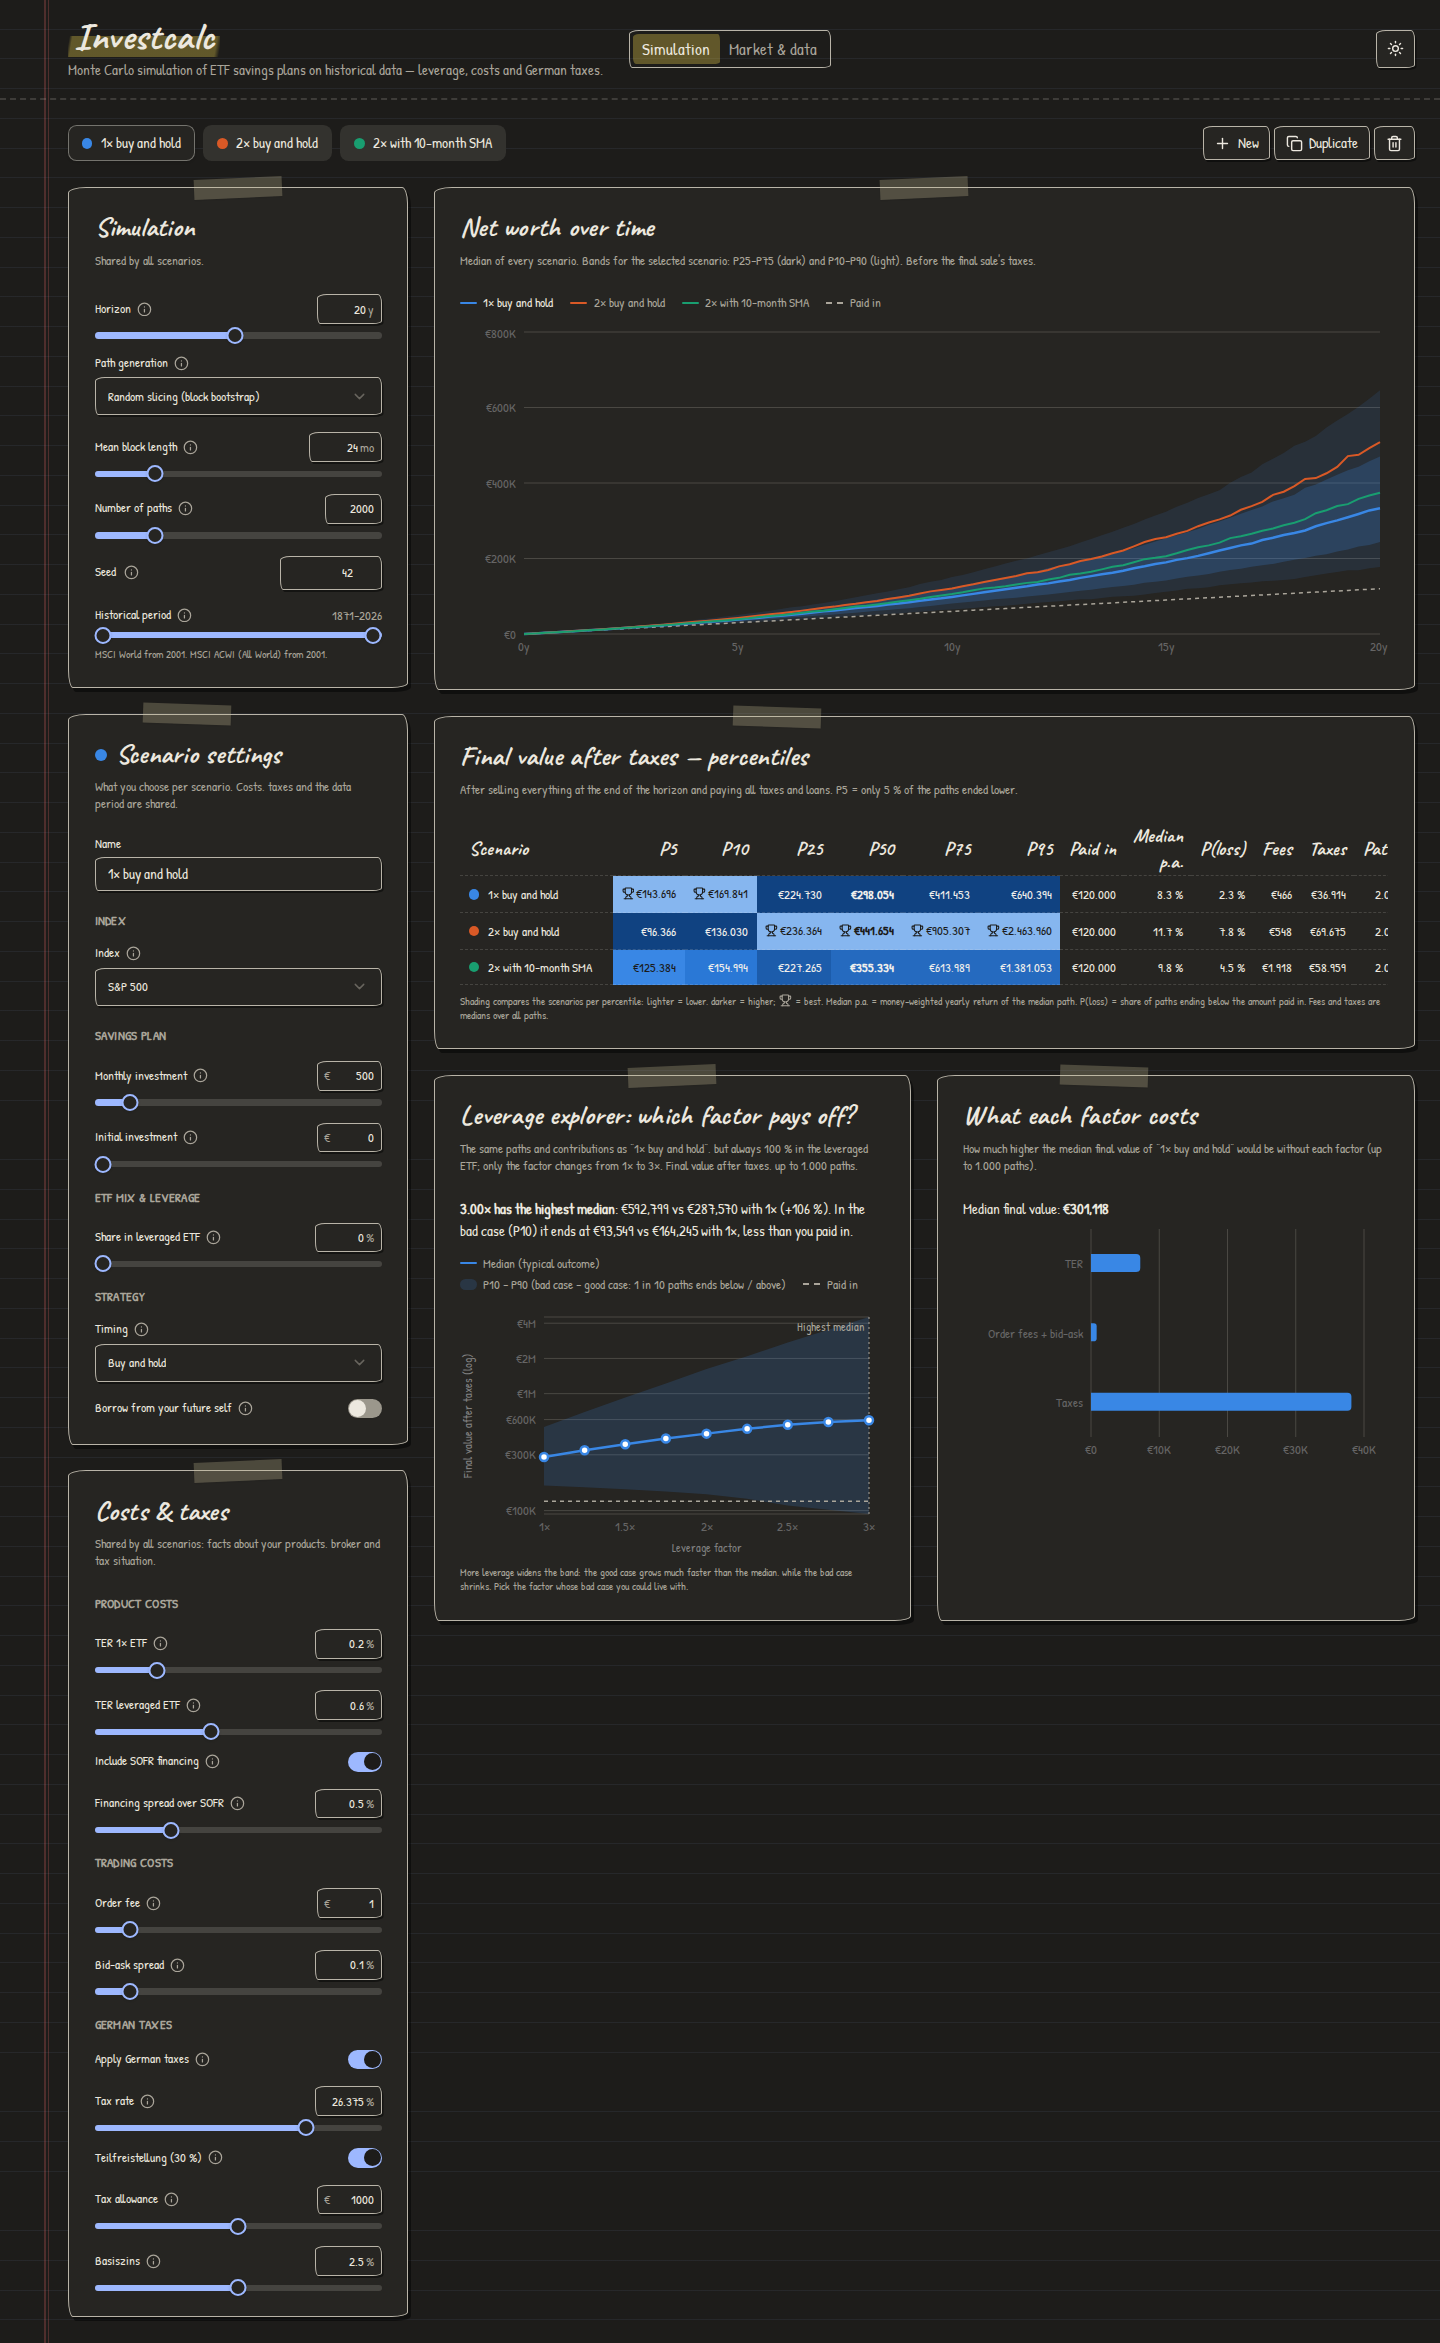
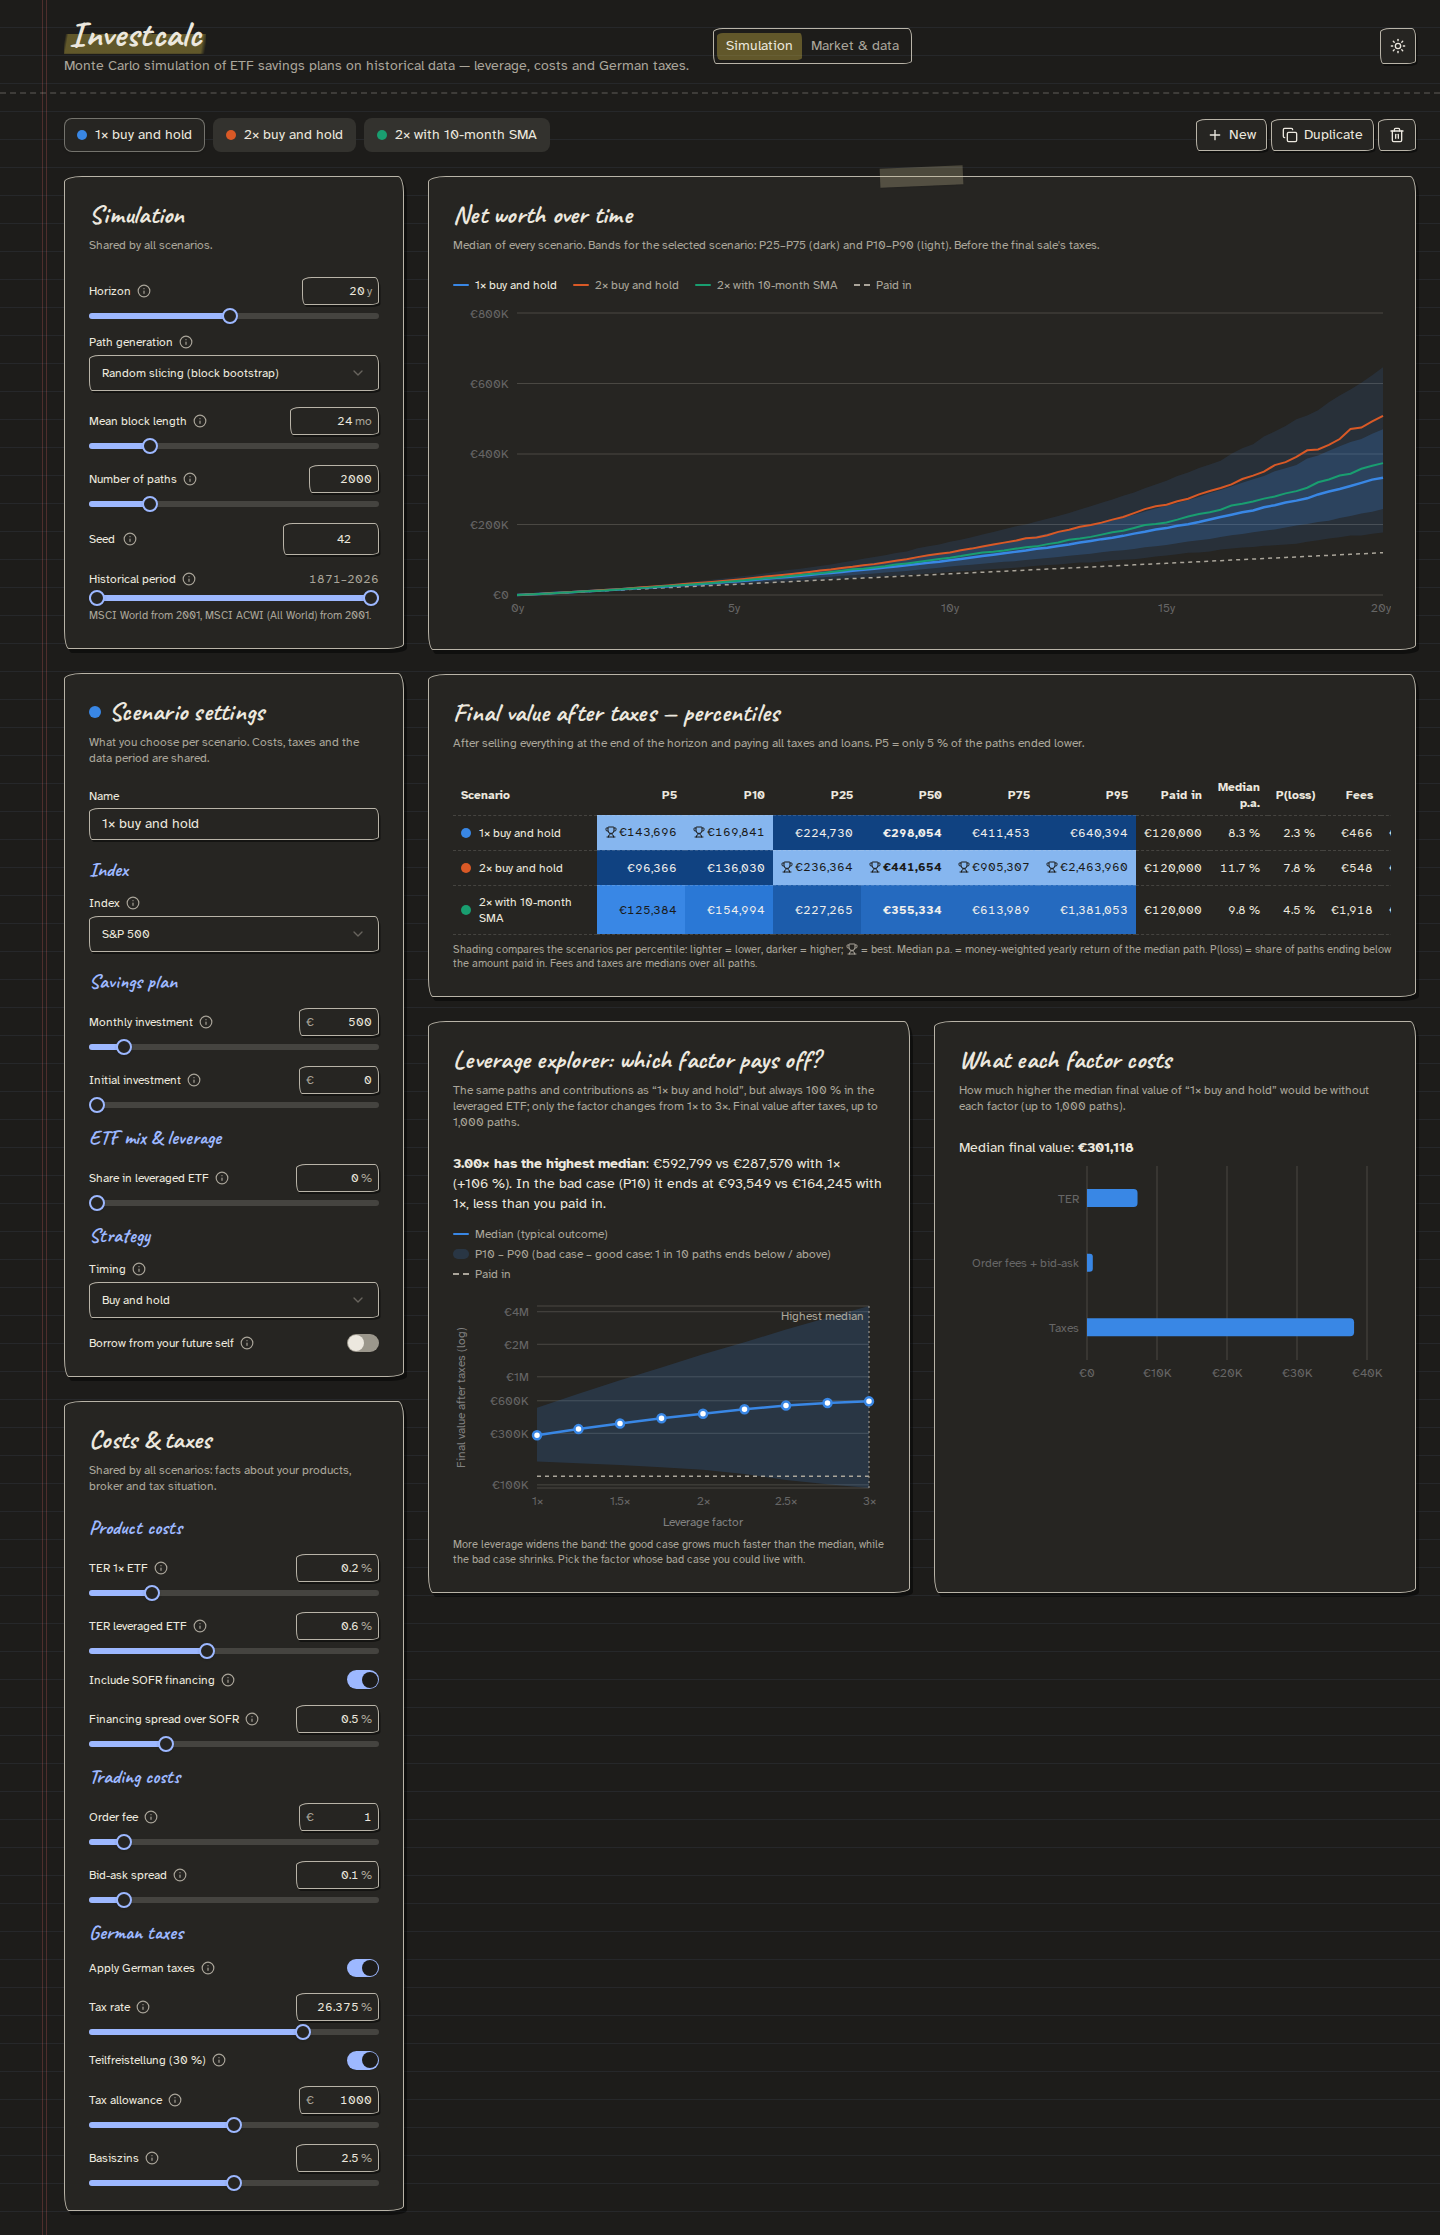
Apply frontend-design critique, use a legible body font
- Handwriting only for headings; body, labels and numbers in Atkinson Hyperlegible
- Cooler near-white paper, tape only on the main chart, sentence-case handwritten group headings

diff --git a/src/index.css b/src/index.css
@@ -5,18 +5,18 @@
 
 :root {
   --radius: 0.625rem;
-  /* Notebook paper (light): cream page, graphite ink, blue fountain-pen accents. */
-  --background: #fbf8f1;
+  /* Notebook paper (light): near-white page, graphite ink, blue fountain-pen accents. */
+  --background: #fafaf7;
   --foreground: #2b2a33;
-  --card: #fffdf8;
+  --card: #ffffff;
   --card-foreground: #2b2a33;
-  --popover: #fffdf8;
+  --popover: #ffffff;
   --popover-foreground: #2b2a33;
   --primary: #24408e;
-  --primary-foreground: #fffdf8;
-  --secondary: #f1ebdc;
+  --primary-foreground: #ffffff;
+  --secondary: #eef0f4;
   --secondary-foreground: #2b2a33;
-  --muted: #f1ebdc;
+  --muted: #eef0f4;
   --muted-foreground: #66636d;
   --accent: #fff0a3;
   --accent-foreground: #2b2a33;
@@ -67,8 +67,8 @@
   --heat-ink-7: #ffffff;
   --heat-ink-8: #ffffff;
 
-  --notebook-sans: "Patrick Hand", "Comic Sans MS", ui-rounded, system-ui, sans-serif;
-  --notebook-hand: "Caveat", "Patrick Hand", cursive;
+  --notebook-sans: "Atkinson Hyperlegible", system-ui, sans-serif;
+  --notebook-hand: "Caveat", cursive;
 }
 
 .dark {
@@ -172,9 +172,6 @@
     @apply outline-ring/50;
     border-color: var(--hairline);
   }
-  html {
-    font-size: 17px;
-  }
   body {
     @apply bg-background text-foreground font-sans antialiased;
     /* Ruled notebook paper; the red margin line is added from the sm breakpoint on. */
@@ -224,8 +221,8 @@
   border-radius: 18px 6px 16px 5px / 6px 16px 5px 18px;
   box-shadow: 3px 4px 0 var(--sketch-shadow);
 }
-/* A strip of tape holding each card on the page. */
-[data-slot="card"]::before {
+/* A strip of tape holds the main chart on the page: the one decoration, so it stays special. */
+[data-slot="card"].taped::before {
   content: "";
   position: absolute;
   top: -0.6rem;
@@ -236,10 +233,6 @@
   transform: rotate(-2.5deg);
   box-shadow: 0 1px 1px rgb(0 0 0 / 0.06);
   pointer-events: none;
-}
-[data-slot="card"]:nth-of-type(even)::before {
-  transform: rotate(2deg);
-  left: calc(35% - 2.6rem);
 }
 
 [data-slot="button"],
@@ -273,9 +266,6 @@
 [data-slot="tabs-list"] {
   border: 1.5px solid var(--border);
   background: transparent;
-}
-[data-slot="tabs-trigger"] {
-  font-size: 1rem;
 }
 [data-slot="tabs-trigger"][data-state="active"] {
   background: var(--highlight);
@@ -324,7 +314,5 @@ h2,
   border-bottom: 1px dashed var(--hairline);
 }
 [data-slot="table-head"] {
-  font-family: var(--notebook-hand);
-  font-size: 1.15rem;
   font-weight: 700;
 }

diff --git a/src/features/scenarios/ScenarioEditor.tsx b/src/features/scenarios/ScenarioEditor.tsx
@@ -52,9 +52,7 @@ export function ScenarioEditor({ scenario, datasets, onChange }: Props) {
         </div>
 
         <section className="space-y-4">
-          <h3 className="text-sm lg:text-xs font-semibold uppercase tracking-wide text-muted-foreground">
-            Index
-          </h3>
+          <h3 className="font-hand text-xl leading-none font-bold text-primary">Index</h3>
           <div className="space-y-1.5">
             <div className="flex items-center gap-1.5">
               <Label htmlFor="etf" className="text-sm lg:text-xs font-medium">
@@ -85,7 +83,7 @@ export function ScenarioEditor({ scenario, datasets, onChange }: Props) {
           const fields = group.fields.filter((f) => !f.visible || f.visible(p));
           return (
             <section key={group.title} className="space-y-4">
-              <h3 className="text-sm lg:text-xs font-semibold uppercase tracking-wide text-muted-foreground">
+              <h3 className="font-hand text-xl leading-none font-bold text-primary">
                 {group.title}
               </h3>
               {fields.map((field) => (

diff --git a/src/features/scenarios/SharedSettingsCard.tsx b/src/features/scenarios/SharedSettingsCard.tsx
@@ -25,7 +25,7 @@ export function SharedSettingsCard({ shared, context, onChange }: Props) {
           if (fields.length === 0) return null;
           return (
             <section key={group.title} className="space-y-4">
-              <h3 className="text-sm lg:text-xs font-semibold uppercase tracking-wide text-muted-foreground">
+              <h3 className="font-hand text-xl leading-none font-bold text-primary">
                 {group.title}
               </h3>
               {fields.map((field) => (

diff --git a/src/main.tsx b/src/main.tsx
@@ -4,7 +4,8 @@ import { createRoot } from "react-dom/client";
 import { App } from "@/App";
 import { Toaster } from "@/components/ui/sonner";
 import "@fontsource/caveat/700.css";
-import "@fontsource/patrick-hand/400.css";
+import "@fontsource/atkinson-hyperlegible/400.css";
+import "@fontsource/atkinson-hyperlegible/700.css";
 import "@/index.css";
 
 const queryClient = new QueryClient();

diff --git a/src/features/results/FanChart.tsx b/src/features/results/FanChart.tsx
@@ -42,7 +42,7 @@ export function FanChart({ scenarios, results, selectedKey }: Props) {
   const color = selected ? scenarioColor(selected) : "#888";
 
   return (
-    <Card>
+    <Card className="taped">
       <CardHeader>
         <CardTitle className="text-base">Net worth over time</CardTitle>
         <CardDescription className="text-sm lg:text-xs">

diff --git a/docs/architecture.md b/docs/architecture.md
@@ -2,7 +2,7 @@
 
 Static single-page app, no backend. Simulations run entirely in the browser, off the main thread.
 
-- `src/main.tsx` — entry; mounts `App` inside the TanStack Query provider and the sonner `Toaster`, loads the handwriting fonts (`@fontsource/caveat`, `@fontsource/patrick-hand`).
+- `src/main.tsx` — entry; mounts `App` inside the TanStack Query provider and the sonner `Toaster`, loads the handwriting fonts (`@fontsource/caveat`, `@fontsource/atkinson-hyperlegible`).
 - `src/index.css` — theme: light and dark CSS variables (shadcn tokens, the categorical `--series-N` scenario colors and the `--heat-N` / `--heat-ink-N` table ramp, each stepped per theme) and the notebook look (ruled paper, hand-drawn outlines, tape, highlighter). The notebook rules are unlayered on purpose so they override the utility classes of the shadcn primitives without forking them. The dark theme is the `.dark` class on `<html>`, set before first paint by an inline script in `index.html` and toggled by `features/theme`.
 - `src/components/ui/` — shadcn/ui components (generated with `bunx shadcn@latest add <name>`, excluded from Biome).
 - `src/simulation/` — the simulation engine: pure, framework-free TypeScript so it can be unit-tested and run inside a Web Worker.

diff --git a/docs/specs/003-notebook-look/spec.md b/docs/specs/003-notebook-look/spec.md
@@ -48,6 +48,7 @@ lets users type exact values, adds a light/dark theme switch and restyles the pa
 - **When** the dashboard is shown
 - **Then** it looks like a page of a ruled notebook: ruled paper with a margin line, handwritten
   headings, hand-drawn (slightly irregular) outlines on cards and controls, and highlighter accents
+- **And** body text, labels and numbers use a plain, highly legible typeface (handwriting only for headings)
 - **And** numbers and charts stay legible and charts keep their validated colors for the theme
   (stepped for the dark surface in the dark theme)
 
